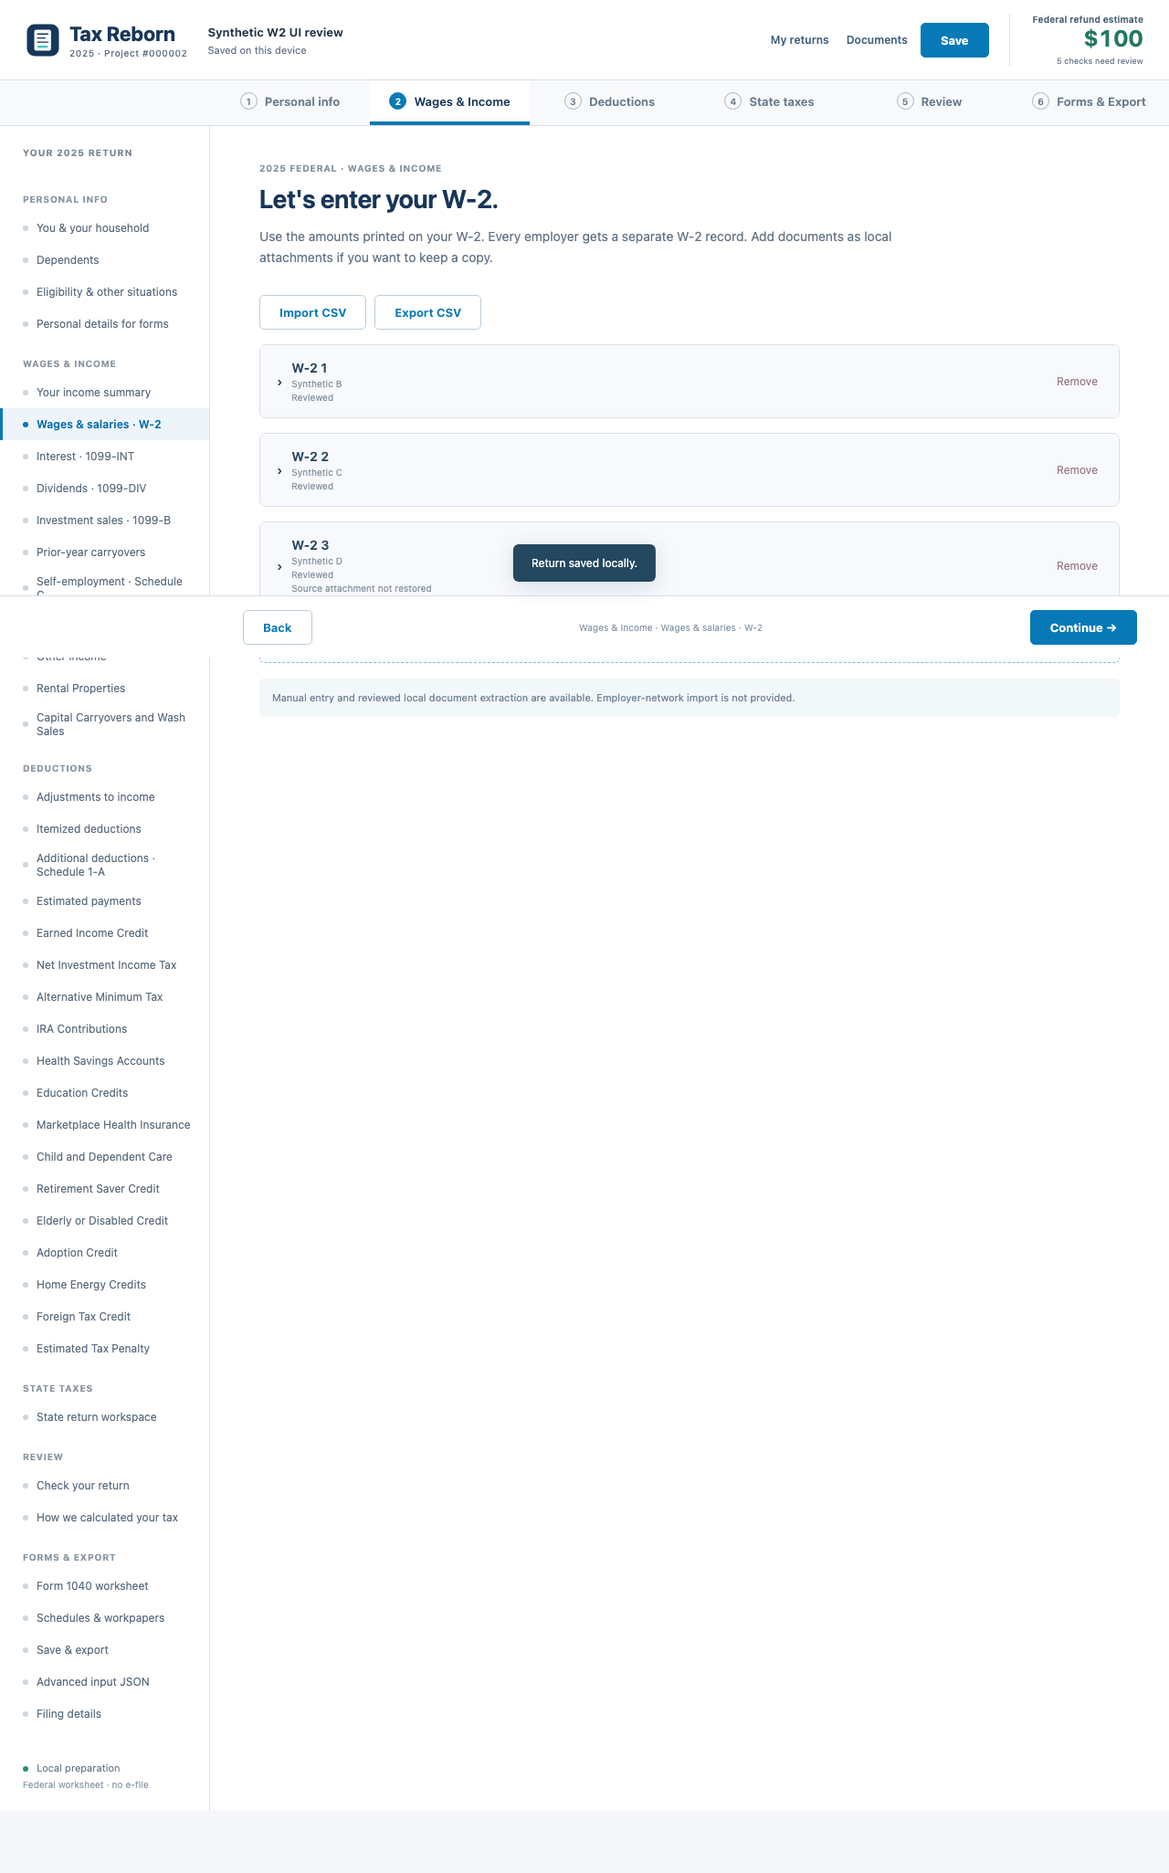
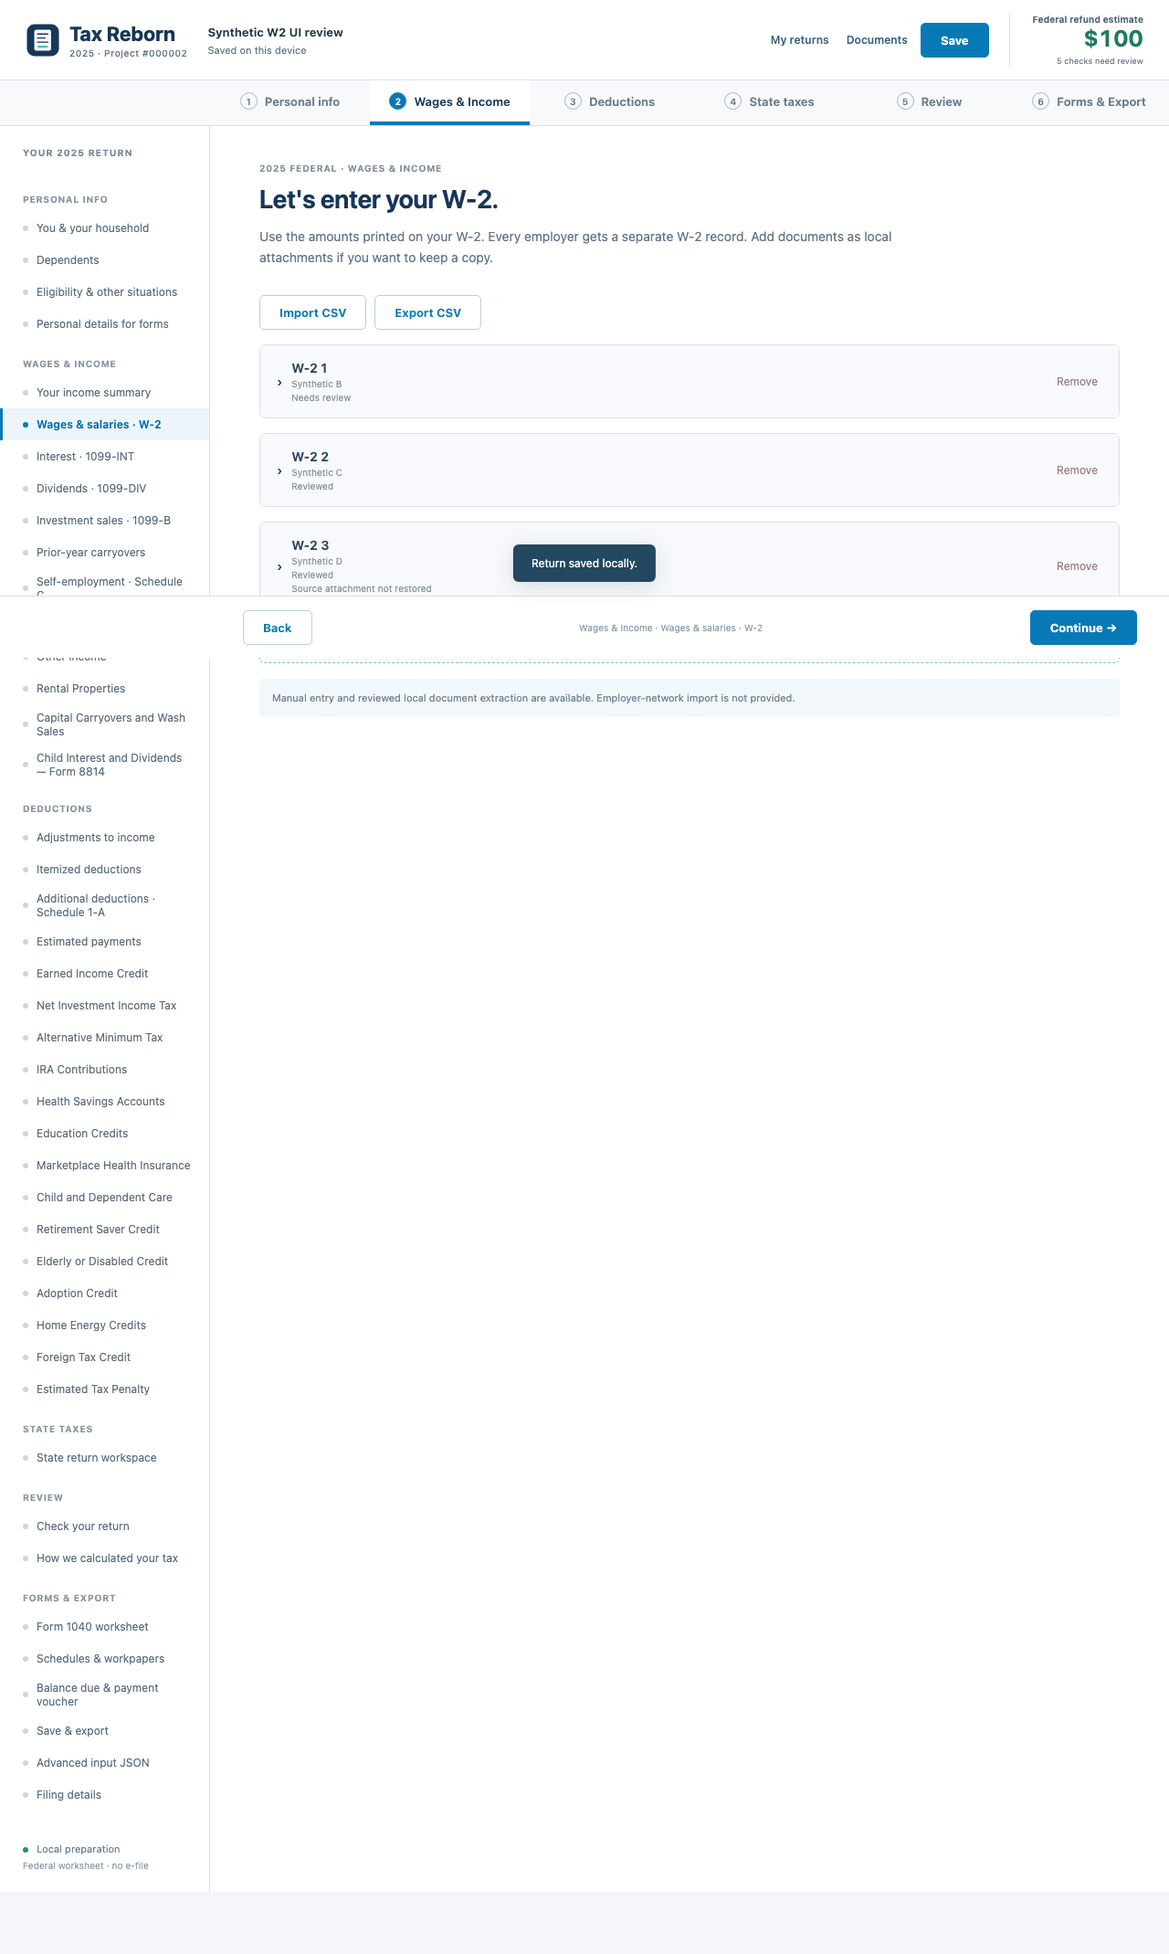
Prevent duplicate reviewed income imports and stale OCR insertion

diff --git a/web/app.js b/web/app.js
@@ -678,9 +678,11 @@ const documentsForReturn=id=>documentOperation('readonly',store=>store.index('re
 async function deleteDocumentsForReturn(id){const rows=await documentsForReturn(id);await documentOperation('readwrite',store=>{for(const row of rows)store.delete(row.id);});}
 async function reviewExtractedW2(row,returnId){
  if(typeof window.extractTaxDocument!=='function')throw Error('Local document extraction is not available in this build. You can enter the W-2 manually.');
+ const atRevision=revision,source={document_id:row.id,return_id:returnId,name:String(row.name||'W-2 document').replace(/[\u0000-\u001f\u007f]/g,'').slice(0,256),method:'ocr'};
+ window.taxRecordMetadata.assertNewSource(metadata.w2_records,source,'W-2');
  notify('Reading this document locally…');
  const extracted=await window.extractTaxDocument(row.file);
- if(currentId!==returnId)throw Error('The open return changed. Reopen its document before importing.');
+ if(currentId!==returnId||revision!==atRevision)throw Error('This return changed while extracting. Reopen its document before importing.');
  const candidates=extracted.candidates||{},draft=clone(rowTemplate('w2')||recordDefinitions.w2.template),inputs={},holder=el('div');
  holder.append(el('p',{class:'intro'},'Review each candidate against the original W-2. Extraction can misread boxes or digits. Adding this record will not overwrite an existing W-2.'),
   el('div',{class:'note warning'},extracted.form_type==='w2'?'W-2 candidate · verify tax year 2025 and every amount.':'The document was not confidently identified as a W-2. Only add it if you have verified that it is a 2025 W-2.'),
@@ -700,18 +702,22 @@ async function reviewExtractedW2(row,returnId){
  if(extracted.text)holder.append(el('details',{class:'details-toggle'},el('summary',{},'Show extracted source text'),el('pre',{class:'document-source'},String(extracted.text).slice(0,6000))));
  const reviewed=el('input',{type:'checkbox'});
  holder.append(el('label',{class:'check-field'},reviewed,el('span',{},'I verified this is a 2025 W-2 and checked each imported amount against the document.')));
+ let committing=false;
  modal('Review W-2 candidates',holder,[['Add reviewed W-2',async()=>{
-  if(currentId!==returnId)throw Error('The open return changed. Reopen its document before importing.');
+  if(committing)return;committing=true;
+  try{
+  if(currentId!==returnId||revision!==atRevision)throw Error('This return changed during review. Reopen its document before importing.');
   if(!reviewed.checked)throw Error('Review the document and confirm the imported amounts first.');
   for(const[name,input]of Object.entries(inputs)){
    if(MONEY_KEYS.has(name)){decimalCents(input.value);draft[name]=String(input.value).trim()||'0';}else draft[name]=input.value;
   }
   if(!draft.employer.trim())throw Error('Enter the employer name from the W-2.');
-  const preparation=window.taxRecordMetadata.newRecord({document_id:row.id,return_id:returnId,name:String(row.name||'W-2 document').replace(/[\u0000-\u001f\u007f]/g,'').slice(0,256),method:'ocr'});
+  const preparation=window.taxRecordMetadata.newRecord(source);
   const fingerprint=await window.taxRecordMetadata.fingerprint(draft);
-  if(currentId!==returnId)throw Error('The open return changed. Reopen its document before importing.');
+  if(currentId!==returnId||revision!==atRevision||!holder.isConnected)throw Error('This return or review window changed. No income record was added.');
   preparation.reviewed=true;preparation.reviewed_at=new Date().toISOString();preparation.reviewed_fingerprint=fingerprint;preparation.row_fingerprint=fingerprint;
-  ensureW2Metadata();data.w2.push(draft);metadata.w2_records.push(preparation);openRecords.add('w2:'+preparation.record_id);changed();closeDialog();navigate('w2');notify('Reviewed W-2 added. Save to keep this return.');
+  ensureW2Metadata();window.taxRecordMetadata.assertNewSource(metadata.w2_records,source,'W-2');data.eligibility.all_income_reported=false;data.w2.push(draft);metadata.w2_records.push(preparation);openRecords.add('w2:'+preparation.record_id);changed();closeDialog();navigate('w2');notify('Reviewed W-2 added. Review income completeness and save to keep this return.');
+  }finally{committing=false;}
  },'primary']]);
 }
 async function showTaxMLImport(){
@@ -776,7 +782,7 @@ function reviewTaxMLW2(source,candidate,returnId,atRevision){
    const values=Object.fromEntries(Object.entries(inputs).map(([name,input])=>[name,input.value]));
    const prepared=await window.taxMLImport.reviewedRecord(candidate,values,{document_id:source.id,return_id:returnId,name:String(source.name).replace(/[\u0000-\u001f\u007f]/g,'').slice(0,256)},confirmed.checked,rowTemplate('w2'));
    if(currentId!==returnId||revision!==atRevision)throw Error('This return changed during review. No income record was added.');
-   ensureW2Metadata();data.eligibility.all_income_reported=false;data.w2.push(prepared.row);metadata.w2_records.push(prepared.metadata);openRecords.add('w2:'+prepared.metadata.record_id);changed();closeDialog();navigate('w2');notify('Reviewed TaxML W-2 added. Income completeness was not confirmed. Save to keep this draft.');
+   ensureW2Metadata();window.taxRecordMetadata.assertNewSource(metadata.w2_records,prepared.metadata.source_document,'W-2');data.eligibility.all_income_reported=false;data.w2.push(prepared.row);metadata.w2_records.push(prepared.metadata);openRecords.add('w2:'+prepared.metadata.record_id);changed();closeDialog();navigate('w2');notify('Reviewed TaxML W-2 added. Income completeness was not confirmed. Save to keep this draft.');
   }finally{committing=false;}
  },'primary'],['Download corrected XML',async()=>{
   if(committing)return;committing=true;
@@ -807,7 +813,7 @@ function reviewTaxMLInterest(source,candidate,returnId,atRevision){
    if(currentId!==returnId||revision!==atRevision)throw Error('This return changed during review. Reopen the import.');
    const prepared=await window.taxMLImport.reviewedInterest(candidate,values(),{document_id:source.id,return_id:returnId,name:String(source.name).replace(/[\u0000-\u001f\u007f]/g,'').slice(0,256)},confirmed.checked);
    if(currentId!==returnId||revision!==atRevision)throw Error('This return changed during review. No income record was added.');
-   ensureIncomeMetadata();data.eligibility.all_income_reported=false;data.interest.push(prepared.row);metadata.income_document_records.interest.push(prepared.metadata);openRecords.add('interest:'+prepared.metadata.record_id);changed();closeDialog();navigate('interest');notify('Reviewed TaxML 1099-INT added. Save to keep the draft and original source snapshot.');
+   ensureIncomeMetadata();window.taxRecordMetadata.assertNewSource(metadata.income_document_records.interest,prepared.metadata.source_document,'1099-INT');data.eligibility.all_income_reported=false;data.interest.push(prepared.row);metadata.income_document_records.interest.push(prepared.metadata);openRecords.add('interest:'+prepared.metadata.record_id);changed();closeDialog();navigate('interest');notify('Reviewed TaxML 1099-INT added. Save to keep the draft and original source snapshot.');
   }finally{committing=false;}
  },'primary'],['Download corrected XML',async()=>{
   if(committing)return;committing=true;
@@ -835,7 +841,7 @@ function reviewTaxMLDividend(source,candidate,returnId,atRevision){
    if(currentId!==returnId||revision!==atRevision)throw Error('This return changed during review. Reopen the import.');
    const prepared=await window.taxMLImport.reviewedDividend(candidate,values(),{document_id:source.id,return_id:returnId,name:String(source.name).replace(/[\u0000-\u001f\u007f]/g,'').slice(0,256)},confirmed.checked);
    if(currentId!==returnId||revision!==atRevision)throw Error('This return changed during review. No income record was added.');
-   ensureIncomeMetadata();data.eligibility.all_income_reported=false;data.dividends.push(prepared.row);metadata.income_document_records.dividends.push(prepared.metadata);openRecords.add('dividends:'+prepared.metadata.record_id);changed();closeDialog();navigate('dividends');notify('Reviewed TaxML 1099-DIV added. Save to keep the draft and original source snapshot.');
+   ensureIncomeMetadata();window.taxRecordMetadata.assertNewSource(metadata.income_document_records.dividends,prepared.metadata.source_document,'1099-DIV');data.eligibility.all_income_reported=false;data.dividends.push(prepared.row);metadata.income_document_records.dividends.push(prepared.metadata);openRecords.add('dividends:'+prepared.metadata.record_id);changed();closeDialog();navigate('dividends');notify('Reviewed TaxML 1099-DIV added. Save to keep the draft and original source snapshot.');
   }finally{committing=false;}
  },'primary'],['Download corrected XML',async()=>{
   if(committing)return;committing=true;

diff --git a/web/local-api.js b/web/local-api.js
@@ -33,6 +33,18 @@
     }else if(Object.hasOwn(value,'taxml_receipt'))throw Error('TaxML source receipt requires the TaxML method');
     return output;
   }
+  function assertNewSource(records, source, label) {
+    const candidate=localSource(source);
+    if(!candidate)return;
+    for(const entry of records||[]){
+      const previous=localSource(entry.source_document);
+      if(!previous)continue;
+      const sameAttachment=previous.return_id===candidate.return_id&&previous.document_id===candidate.document_id;
+      const a=previous.taxml_receipt,b=candidate.taxml_receipt;
+      const sameTaxMLForm=a&&b&&a.source_sha256===b.source_sha256&&a.archive_member===b.archive_member&&a.form_path===b.form_path;
+      if(sameTaxMLForm||sameAttachment&&!(a&&b))throw Error('This source already supplied a '+label+'. Edit the existing record instead of adding it again.');
+    }
+  }
   async function normalizeMetadata(data,provided,previous=null,options={}) {
     const rows=data.w2||[];if(!Array.isArray(rows)||rows.length>1000)throw Error('Invalid W-2 preparation record collection');
     const fingerprints=await Promise.all(rows.map(async row=>{try{return await w2Fingerprint(row);}catch(error){if(options.draft)return null;throw error;}}));let entries;
@@ -59,14 +71,14 @@
     for(const old of previous?.income_import_events||[]){const current=events.find(item=>item.event_id===old.event_id);if(!current||JSON.stringify(sorted(current))!==JSON.stringify(sorted(old)))throw Error('Saved income-import history cannot be removed or changed');}
     return {version:1,w2_records:records,investment_records:investments,income_document_records:income,income_import_events:events};
   }
-  window.taxRecordMetadata={setDefaults:value=>{w2Defaults={...value};},fingerprint:w2Fingerprint,canonicalW2,normalize:normalizeMetadata,validateSource:localSource,
+  window.taxRecordMetadata={setDefaults:value=>{w2Defaults={...value};},fingerprint:w2Fingerprint,canonicalW2,normalize:normalizeMetadata,validateSource:localSource,assertNewSource,
     empty:()=>({version:1,w2_records:[],income_document_records:{interest:[],dividends:[]},income_import_events:[]}),newRecord:source=>({record_id:crypto.randomUUID(),row_fingerprint:null,reviewed:false,reviewed_at:null,reviewed_fingerprint:null,source_document:localSource(source)})};
   const offline = new URLSearchParams(location.search).get('offline') === '1';
   let worker, sequence = 0, dbPromise;
   const pending = new Map();
   const uuid = () => crypto.randomUUID();
   const validId = value => typeof value === 'string' && /^[0-9a-f]{8}-[0-9a-f]{4}-4[0-9a-f]{3}-[89ab][0-9a-f]{3}-[0-9a-f]{12}$/.test(value);
-  const caps = {product:'Tax Reborn',project_number:'000002',version:'2026.10.15-preview.15',tax_year:2025,
+  const caps = {product:'Tax Reborn',project_number:'000002',version:'2026.10.15-preview.19',tax_year:2025,
     jurisdiction:'US federal',currency:'USD',electronic_filing:false,state_returns:"31 full-year resident state drafts",official_product_parity:false,
     storage:'private on-device IndexedDB',requires_account:false,offline:true};
   function engine(command, payload) {

diff --git a/web/service-worker.js b/web/service-worker.js
@@ -1,5 +1,5 @@
 'use strict';
-const VERSION='tax-reborn-ui-2025-preview-31';
+const VERSION='tax-reborn-ui-2025-preview-32';
 const SHELL=['./','./index.html','./style.css','./app.js','./local-api.js','./investment-corrections.js','./income-preparation.js','./tax-worker.js','./native-file-bridge.js','./document-import.js','./taxml-import.js','./taxml_wire.py','./taxml_native.py','./taxml_xml_edit.py','./taxml_preparation.py','./state-workspace.js','./state-worker.js','./offline-readiness.js','./ocr-worker.js','./manifest.webmanifest','./icon.svg','./icon-192.png','./icon-512.png'];
 let configuredAssets=[];
 const canonical=value=>new URL(value,self.registration.scope).href;

diff --git a/docs/DOCUMENT_IMPORT_GUARDS_2025.md b/docs/DOCUMENT_IMPORT_GUARDS_2025.md
@@ -1,0 +1,21 @@
+# Reviewed source imports for tax year 2025
+
+Preview19 prevents a repeated source import from silently counting the same income twice. The existing record remains editable, with its original source receipt retained.
+
+For OCR, a W-2 already linked to the same local attachment cannot be added again. For reviewed TaxML W-2, 1099-INT and 1099-DIV imports, the source-file SHA256, archive member and source form path identify the source form. Re-uploading the same file under a new attachment ID, or choosing another wire profile for that same source form, does not create a second income record. Separate source form paths and archive members remain independent. Identical amounts entered manually are not treated as duplicate evidence. This is a source-identity guard; it does not claim to detect the same paper form photographed twice into different attachments or exported into different files.
+
+OCR extraction and reviewed insertion retain the open return's revision. Editing that return while extraction or asynchronous fingerprinting runs cancels the stale insertion. Closing the review window while fingerprinting also prevents a later invisible addition. Adding a reviewed OCR W-2 clears the earlier income-completeness confirmation, so the user must review the updated income collection. Existing W-2 values and their identities are retained.
+
+## Executed source acceptance
+
+- Thirteen browser checks exercise real HTTP/SQLite and IndexedDB persistence, source viewing, review metadata, JSON backup restoration, duplicate OCR rejection, changes during extraction/commit, and closing a pending review. The extractor is synthetic and checks the review workflow; this is not camera or OCR-accuracy evidence.
+- Six actual browser cases inspect independently authored TaxML through the actual Pyodide worker, add and save one W-2, 1099-INT or 1099-DIV, then re-upload its source. Both HTTP/SQLite and browser Pyodide/IndexedDB retain one record and unchanged tax totals after save and reload.
+- The actual worker/runtime checks cover re-uploaded source identity, changed wire profiles, independent form paths/archive members, immutable receipts, reviewed amounts and corrected XML readback.
+
+Receipts and screenshots: [document import acceptance](../qa/document-import-guard-20261015/), [W-2 browser checks](../qa/w2-review-browser-tests.json), and [actual TaxML worker](../qa/taxml/runtime-receipt.json). Native package generation and platform execution are recorded separately; these source checks do not establish physical Android acceptance or original TurboTax compatibility.
+
+## REA evidence and independent implementation
+
+Private original-binary analysis now distinguishes display text, field-used flags, overwrite guards, conversion, a setter request and final stored presence. Selected original AutoFill code retains nonempty existing display text unless a specific drop-assigned flag or force path applies. It can also return after discarding a local setter error. The independent App reports rejected insertion rather than reproducing that silent-error behavior. Source-import identity and revision guards above are independently authored product decisions informed by this distinction; they are not recovered TurboTax algorithms.
+
+The separately audited binary branches establish the actual payment-voucher mailing producer, native checkbox-member assignment to a group base and a distinct group-field change event, selected AutoFill descriptor layout, and template-attribute payload acquisition/release/purge/reload. Finite source replays still supply successful ordinary callbacks and selected current-input facts. Original runtime execution and original saved-return fixtures remain zero. Complete `.tax` read/write, global calculation scheduling, final field-presence verification and original-result parity remain open. Vendor binaries, private resource literals and decompiler output are excluded from this repository.

diff --git a/README.md b/README.md
@@ -6,7 +6,9 @@ This is independent source code. REA is tracing original annual initialization, 
 
 [Latest preview.12](https://github.com/lxistired/tax-reborn/releases/tag/v2026.10.14-preview.12) adds full birth dates for the2025 no-child EITC and senior-age boundaries. Windows, Mac and Android passed actual birthday edits, save/reopen and native system PDF save/readback. A synthetic January1,2001 to January2 edit changes EIC649/refund1649 to EIC0/refund1000. [Three-platform acceptance](qa/native-preview12/) includes the actual phone-generated PDF and its rendered-page readback. All8 release assets are publicly accessible and hash-verified.
 
-Current preview.18 source adds foreign mailing-address selection and actual Form1040/1040-V country/province/postal rows, with saved inactive inputs, legacy-address migration and separate tax eligibility. Synthetic Germany/Canada packets preserve a2435 USD balance, including the alphanumeric Canadian postal code. Host585 tests, real Pyodide488 executed tests and21 source desktop checks pass. [Address workflow and evidence limits](docs/FOREIGN_MAILING_ADDRESS_2025.md) records source acceptance. The [preview.17 payment-voucher workflow](docs/PAYMENT_VOUCHER_2025.md), [preview.16 NIIT/AMT paperwork](docs/rea-status-20261015-NIIT-AMT.md) and reviewed1099-DIV/TaxML flows remain included. [Native preview.18 acceptance](qa/native-preview18/candidate-acceptance-state.json) records actual Windows Setup installation,21 frozen and23 native GUI checks; Mac system PDF save/readback, old-address migration, normal relaunch and11 prior returns retained. The readonly DMG matches the tested App. The Android APK retains its signer and its actual worker passes two address/PDF cases; physical-phone installation, data retention and new-flow UI are still unverified while USB is absent. Candidate installers remain unpublished; preview.12 is the latest verified public download.
+Current preview.19 source adds [reviewed source-import guards](docs/DOCUMENT_IMPORT_GUARDS_2025.md): repeated OCR attachments and re-uploaded TaxML W-2/1099-INT/1099-DIV source forms cannot silently add duplicate income. Editing a return or closing its OCR review while extraction/fingerprinting runs prevents a stale insertion. Six actual browser Pyodide/SQLite/IndexedDB import cases retain one saved record and unchanged tax totals after re-upload and reload; thirteen W-2 browser checks cover review, source viewing, asynchronous changes and persistence. Source checks and current native package acceptance are recorded separately.
+
+The [preview.18 address workflow](docs/FOREIGN_MAILING_ADDRESS_2025.md), [preview.17 payment vouchers](docs/PAYMENT_VOUCHER_2025.md), [preview.16 NIIT/AMT paperwork](docs/rea-status-20261015-NIIT-AMT.md) and reviewed1099-DIV/TaxML flows remain included. [Native preview.18 acceptance](qa/native-preview18/candidate-acceptance-state.json) records actual Windows Setup installation,21 frozen and23 native GUI checks; Mac system PDF save/readback, legacy-address migration, normal relaunch and11 prior returns retained. Its readonly DMG matches the tested App. The Android APK retains its signer and its actual worker passes two address/PDF cases; physical-phone installation, data retention and new-flow UI remain unverified while USB is absent. Candidate installers remain unpublished; preview.12 is the latest verified public download.
 
 **Status: functional development preview; a complete TurboTax substitute and filing packet have not been established.** Supported arithmetic, complete paperwork and submission are separate checks. Unsupported situations are reported in the return instead of silently marked complete. Electronic filing, tax payment, expert representation and IRS acceptance are unavailable. The calculation year is2025, not2026.
 
